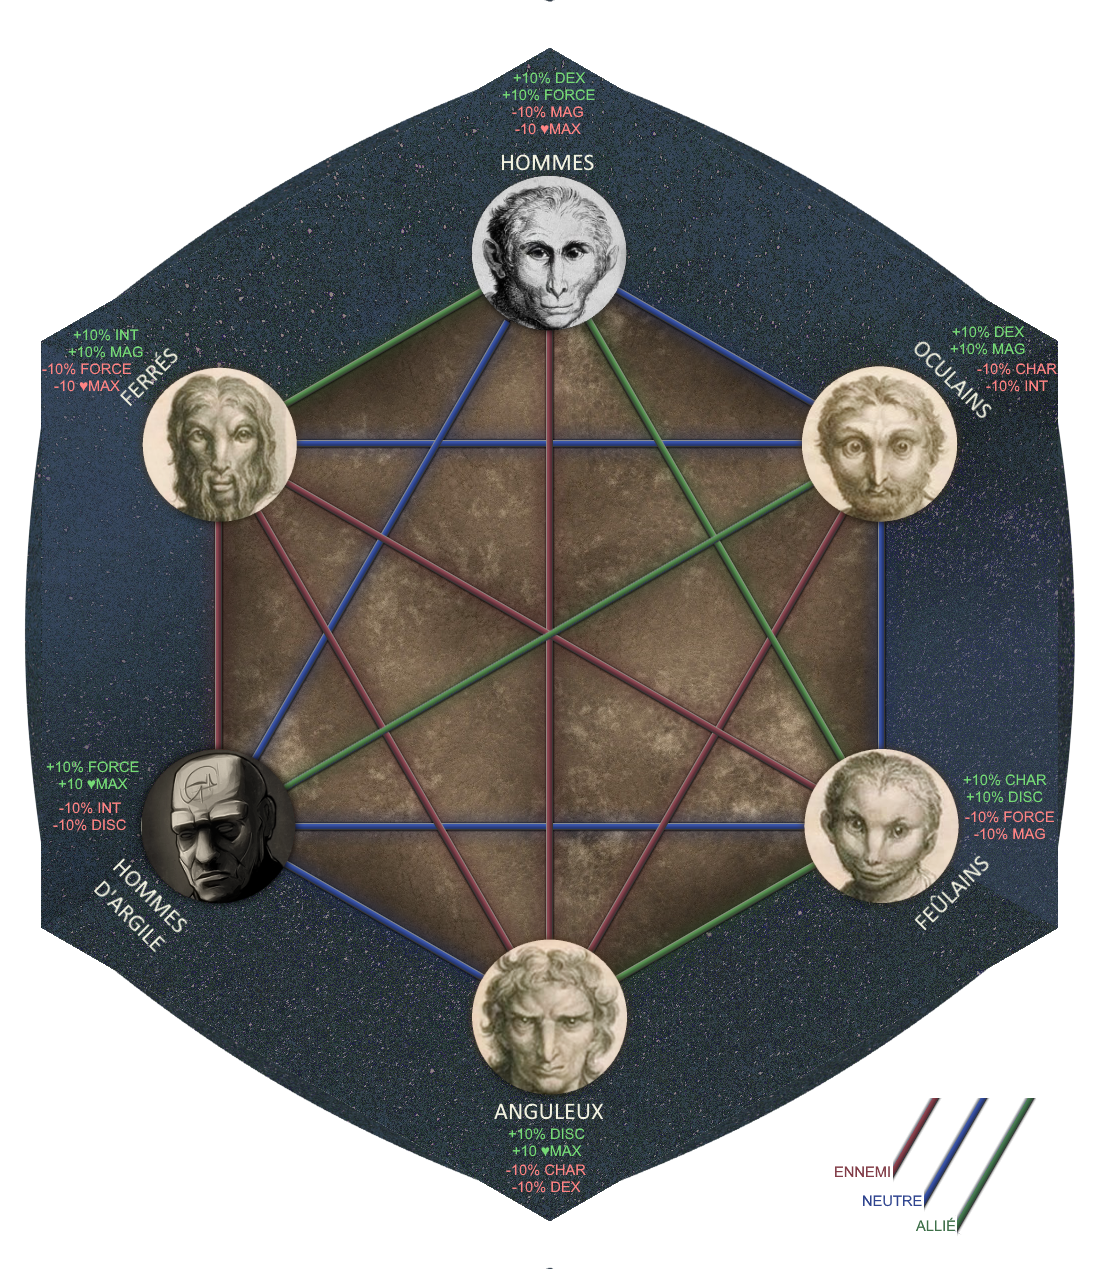
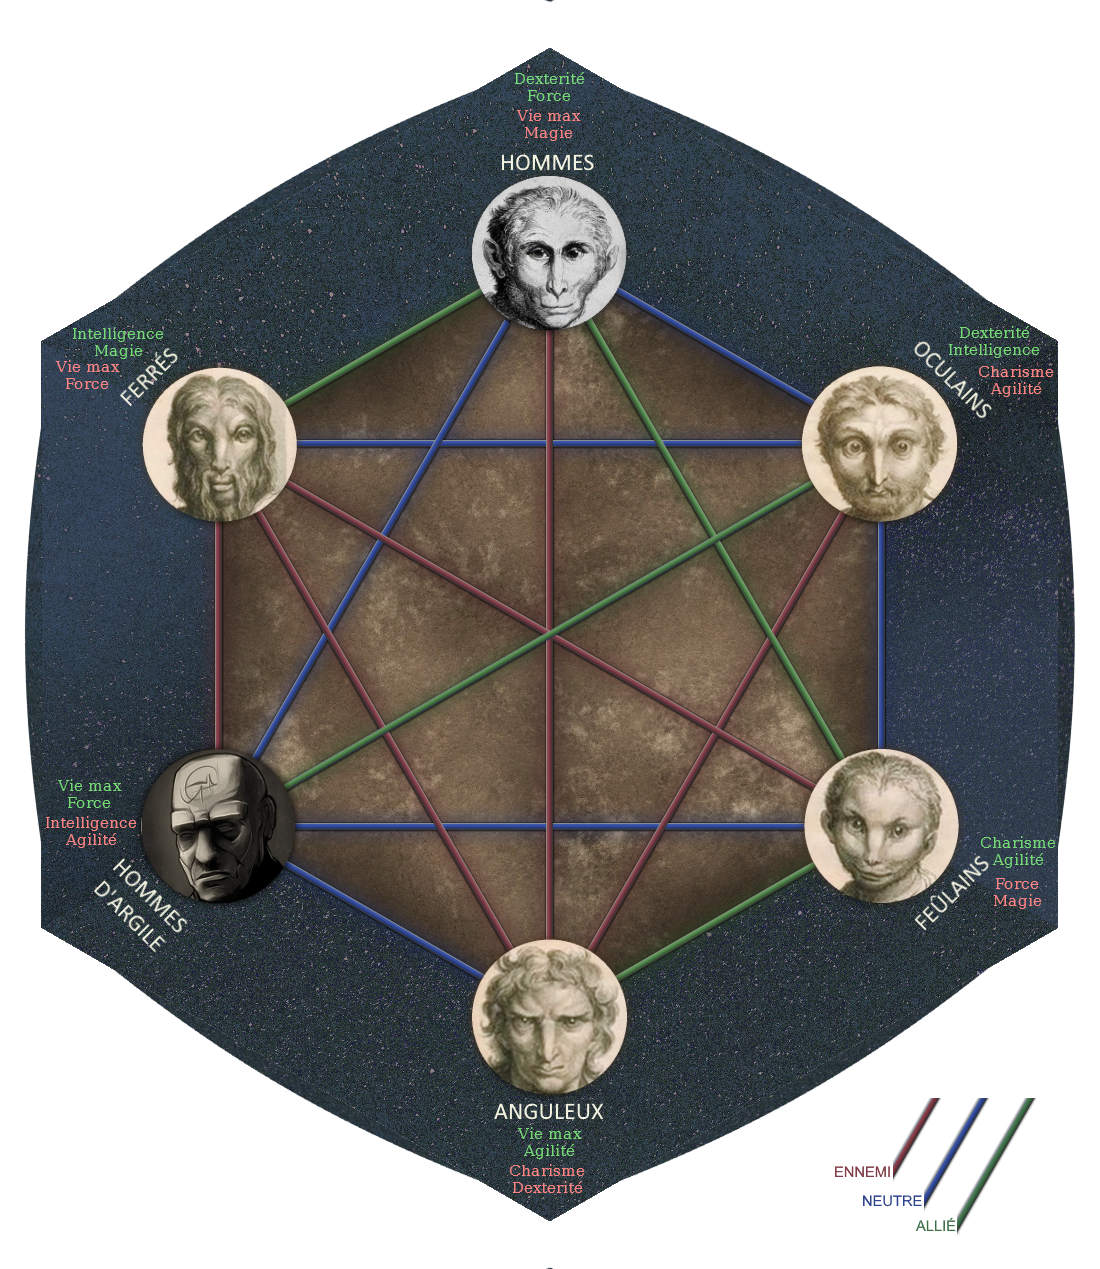
Optimisations et actualisation stats

diff --git a/0.2 Race.html b/0.2 Race.html
@@ -62,105 +62,78 @@
 /* PSEUDO */
 var elpseudo =localStorage.pseudo;
 	document.getElementById("showpseudo").innerHTML = "<h1>Choix d'une race pour "+elpseudo;
-var darace = "none";
+var darace = "";
 var iconClass = document.getElementById('iconClass');
 var classDesc = document.getElementById('classDesc');
 var getitem_desc = document.getElementById("getitem_desc");
 $('.container').click(function() {
    if($('#raceHomme').is(':checked')) {
-	iconClass.src = "images/Classes/homme.png";
-	classDesc.innerHTML="<h2>Hommes</h2><hr><i>Descendants directs du singe, les hommes représentent la partie la plus importante de la population mondiale. Leurs avant membres très développés ont très vite fait d'eux des artisans et constructeurs hors-pair. C'est ainsi grâce à leur savoir-faire que les premières villes ont été érigées.</i><br><br><b>Paricularités</b><br>+10% de Dextérité et +10% de Force<br>-10♥max au départ et -10% de Puissance Magique<br><br><b>Relations particulières</b><br>Les humains s'entendent mal avec les <font color=\"darkred\">Anguleux</font> qu'ils jugent peu sociables. Cependant, ils apprécient beaucoup la compagnie des <font color=\"darkblue\">Feûlains</font>, leurs partenaires économiques de toujours, et celle des <font color=\"darkblue\">Ferrés</font>.";
+	$("#iconClass").attr("src","images/Classes/homme.png");
+	$("#classDesc").html("<h2>Hommes</h2><hr><i>Descendants directs du singe, les hommes représentent la partie la plus importante de la population mondiale. Leurs avant membres très développés ont très vite fait d'eux des artisans et constructeurs hors-pair. C'est ainsi grâce à leur savoir-faire que les premières villes ont été érigées.</i><br><br><b>Paricularités</b><br>+10% de Dextérité et +10% de Force<br>-10♥max au départ et -10% de Puissance Magique<br><br><b>Relations particulières</b><br>Les humains s'entendent mal avec les <font color=\"darkred\">Anguleux</font> qu'ils jugent peu sociables. Cependant, ils apprécient beaucoup la compagnie des <font color=\"darkblue\">Feûlains</font>, leurs partenaires économiques de toujours, et celle des <font color=\"darkblue\">Ferrés</font>.");
 	darace="Homme";
 	}
    if($('#raceOculain').is(':checked')) {
-	iconClass.src = "images/Classes/oculain.png";
-	classDesc.innerHTML="<h2>Oculains</h2><hr><i>Les Oculains sont une évolution des anciens oiseaux de nuit telle que la chouette. Ce sont des individus simples et calmes, à l'instinct grégaire, qui ont un rapport à la nature très fusionnel. Habitant souvent loin de l'agitation des villes, ils préfèrent le calme des régions isolées, où ils vivent d'agriculture dans de petits hameaux.</i><br><br><b>Paricularités</b><br>+10% de Dextérité et +10% d'Intelligence<br>-10% de Charisme et -10% d'Agilité<br><br><b>Relations particulières</b><br>Les oculains s'entendent mal avec les <font color=\"darkred\">Anguleux</font>, qui ont un rapport de domination avec eux. Cependant, ils apprécient beaucoup la compagnie des <font color=\"darkblue\">Hommes</font>, des <font color=\"darkblue\">Ferrés</font>, et des <font color=\"darkblue\">Feûlains</font>, qui ne portent pas sur eux un regard de jugement.";
+	$("#iconClass").attr("src","images/Classes/oculain.png");
+	$("#classDesc").html("<h2>Oculains</h2><hr><i>Les Oculains sont une évolution des anciens oiseaux de nuit telle que la chouette. Ce sont des individus simples et calmes, à l'instinct grégaire, qui ont un rapport à la nature très fusionnel. Habitant souvent loin de l'agitation des villes, ils préfèrent le calme des régions isolées, où ils vivent d'agriculture dans de petits hameaux.</i><br><br><b>Paricularités</b><br>+10% de Dextérité et +10% d'Intelligence<br>-10% de Charisme et -10% d'Agilité<br><br><b>Relations particulières</b><br>Les oculains s'entendent mal avec les <font color=\"darkred\">Anguleux</font>, qui ont un rapport de domination avec eux. Cependant, ils apprécient beaucoup la compagnie des <font color=\"darkblue\">Hommes</font>, des <font color=\"darkblue\">Ferrés</font>, et des <font color=\"darkblue\">Feûlains</font>, qui ne portent pas sur eux un regard de jugement.");
 	darace="Oculain";
 	}
    if($('#raceFeulain').is(':checked')) {
-	iconClass.src = "images/Classes/feulain.png";
-	classDesc.innerHTML="<h2>Feûlains</h2><hr><i>Descendants des anciens petits félinidés, les feûlains se sont très vite rendus compte que faute de savoirs-faire particuliers, ils avaient une capacité à enjôler de leurs mots les autres individus. C'est aujourd'hui une population avant tout marchande.</i><br><br><b>Paricularités</b><br>+10% de Charisme et +10% d'Agilité<br>-10% de Force et -10% de Puissance Magique<br><br><b>Relations particulières</b><br>Les feûlains s'entendent mal avec les <font color=\"darkred\">Ferrés</font> qu'ils jugent hautains, et parce qu'ils maîtrisent la magie, dont les feûlains sont presque dépourvus. Cependant, ils apprécient beaucoup la compagnie des <font color=\"darkblue\">Hommes</font>, leurs partenaires économiques de toujours, et celle des <font color=\"darkblue\">Anguleux</font>.";
+	$("#iconClass").attr("src","images/Classes/feulain.png");
+	$("#classDesc").html("<h2>Feûlains</h2><hr><i>Descendants des anciens petits félinidés, les feûlains se sont très vite rendus compte que faute de savoirs-faire particuliers, ils avaient une capacité à enjôler de leurs mots les autres individus. C'est aujourd'hui une population avant tout marchande.</i><br><br><b>Paricularités</b><br>+10% de Charisme et +10% d'Agilité<br>-10% de Force et -10% de Puissance Magique<br><br><b>Relations particulières</b><br>Les feûlains s'entendent mal avec les <font color=\"darkred\">Ferrés</font> qu'ils jugent hautains, et parce qu'ils maîtrisent la magie, dont les feûlains sont presque dépourvus. Cependant, ils apprécient beaucoup la compagnie des <font color=\"darkblue\">Hommes</font>, leurs partenaires économiques de toujours, et celle des <font color=\"darkblue\">Anguleux</font>.");
 	darace="Feûlain";
 	}
    if($('#raceFerre').is(':checked')) {
-	iconClass.src = "images/Classes/ferre.png";
-	classDesc.innerHTML="<h2>Ferrés</h2><hr><i>Les Ferrés sont une évolution des anciens boucs. Ce sont des créatures très intelligentes, et qui ont un contact supérieur avec l'occulte. Ils vivent souvent seuls, individus à l'ego surdimensionné, pour se consacrer à leur art.</i><br><br><b>Paricularités</b><br>+10% d'Intelligence et +10% de Puissance Magique<br>-10% de Force et -10♥max au départ<br><br><b>Relations particulières</b><br>Les ferrés s'entendent mal avec les <font color=\"darkred\">Hommes d'argile</font> depuis la rebéllion de ces derniers, ainsi qu'avec les <font color=\"darkred\">Anguleux</font> et les <font color=\"darkred\">Feûlains</font>, qu'ils jugent idiots. Cependant, ils apprécient beaucoup la compagnie des <font color=\"darkblue\">Humains</font>, dont ils apprécient l'intérêt  qu'ils portent pour eux.";
+	$("#iconClass").attr("src","images/Classes/ferre.png");
+	$("#classDesc").html("<h2>Ferrés</h2><hr><i>Les Ferrés sont une évolution des anciens boucs. Ce sont des créatures très intelligentes, et qui ont un contact supérieur avec l'occulte. Ils vivent souvent seuls, individus à l'ego surdimensionné, pour se consacrer à leur art.</i><br><br><b>Paricularités</b><br>+10% d'Intelligence et +10% de Puissance Magique<br>-10% de Force et -10♥max au départ<br><br><b>Relations particulières</b><br>Les ferrés s'entendent mal avec les <font color=\"darkred\">Hommes d'argile</font> depuis la rebéllion de ces derniers, ainsi qu'avec les <font color=\"darkred\">Anguleux</font> et les <font color=\"darkred\">Feûlains</font>, qu'ils jugent idiots. Cependant, ils apprécient beaucoup la compagnie des <font color=\"darkblue\">Humains</font>, dont ils apprécient l'intérêt  qu'ils portent pour eux.");
 	darace="Ferré";
 	}
    if($('#raceAnguleux').is(':checked')) {
-	iconClass.src = "images/Classes/anguleux.png";
-	classDesc.innerHTML="<h2>Anguleux</h2><hr><i>Les anguleux descendent tout droit des anciens grands charognards. C'est une population généralement très fière et peu loquace, qui ne se laisse pas marcher dessus. Ils ont su dans l'histoire s'approprier le bien commun pour aujourd'hui être une population assez aisée.</i><br><br><b>Paricularités</b><br>+10♥max au début et +10% d'Agilité<br>-10% de Charisme -10% de Dextérité<br><br><b>Relations particulières</b><br>Les anguleux s'entendent plutôt mal avec les <font color=\"darkred\">Hommes</font>, les <font color=\"darkred\">Oculains</font>, et  les <font color=\"darkred\">Ferrés</font> à cause de leur caractère renfermé. Étrangement, ils acceptent la compagnie des <font color=\"darkblue\">Feûlains</font>.";
+	$("#iconClass").attr("src","images/Classes/anguleux.png");
+	$("#classDesc").html("<h2>Anguleux</h2><hr><i>Les anguleux descendent tout droit des anciens grands charognards. C'est une population généralement très fière et peu loquace, qui ne se laisse pas marcher dessus. Ils ont su dans l'histoire s'approprier le bien commun pour aujourd'hui être une population assez aisée.</i><br><br><b>Paricularités</b><br>+10♥max au début et +10% d'Agilité<br>-10% de Charisme -10% de Dextérité<br><br><b>Relations particulières</b><br>Les anguleux s'entendent plutôt mal avec les <font color=\"darkred\">Hommes</font>, les <font color=\"darkred\">Oculains</font>, et  les <font color=\"darkred\">Ferrés</font> à cause de leur caractère renfermé. Étrangement, ils acceptent la compagnie des <font color=\"darkblue\">Feûlains</font>.");
 	darace="Anguleux";
 	}
    if($('#raceGolemsang').is(':checked')) {
-	iconClass.src = "images/Classes/hommeargile.png";
-	classDesc.innerHTML="<h2>Hommes d'Argile</h2><hr><i>Les Golems d'Argile sont une création magique des Ferrés, qui voulaient soulever les éléments terrestres à la vie pour en faire des esclaves. Le résultat a été plus que brillant : les serviteurs d'argiles étaient juste assez conscients pour comprendre que leur condition d'esclave ne leur convenait pas.. Certains d'entre eux ont demandé à des mages non-angulains de les rendre plus humanoïdes, c'est ainsi que les Golems de Sang sont nés, colosses de chair en général calmes et pacifiques, malgré leur stature.</i><br><br><b>Paricularités</b><br>+10% de Force et +10♥max au départ<br>-10% d'Intelligence et -10% d'Agilité<br><br><b>Relations particulières</b><br>Les golems de sang s'entendent mal avec les <font color=\"darkred\">Ferrés</font> depuis l'insurréction. En relation pacifique avec les autres races, ils aiment particulièrement la compagnie des <font color=\"darkblue\">Oculains</font>, créatures appréciant également la paix et la simplicité.";
+	$("#iconClass").attr("src","images/Classes/hommeargile.png");
+	$("#classDesc").html("<h2>Hommes d'Argile</h2><hr><i>Les Golems d'Argile sont une création magique des Ferrés, qui voulaient soulever les éléments terrestres à la vie pour en faire des esclaves. Le résultat a été plus que brillant : les serviteurs d'argiles étaient juste assez conscients pour comprendre que leur condition d'esclave ne leur convenait pas.. Certains d'entre eux ont demandé à des mages non-angulains de les rendre plus humanoïdes, c'est ainsi que les Golems de Sang sont nés, colosses de chair en général calmes et pacifiques, malgré leur stature.</i><br><br><b>Paricularités</b><br>+10% de Force et +10♥max au départ<br>-10% d'Intelligence et -10% d'Agilité<br><br><b>Relations particulières</b><br>Les golems de sang s'entendent mal avec les <font color=\"darkred\">Ferrés</font> depuis l'insurréction. En relation pacifique avec les autres races, ils aiment particulièrement la compagnie des <font color=\"darkblue\">Oculains</font>, créatures appréciant également la paix et la simplicité.");
 	darace="Golem de Sang";
 	}
 });
 function confirmRace(){
 	if (darace != "none"){
 		localStorage.race=darace;
-		localStorage.plHealth=100;
-		localStorage.plHealthMax=100;
-		localStorage.raceXDex=1;
-		localStorage.raceXChar=1;
-		localStorage.raceXInt=1;
-		localStorage.raceXAgi=1;
-		localStorage.raceXMag=1;
-		localStorage.raceXForce=1;
-		localStorage.bForce=2;
-		localStorage.bMag=2;
-		localStorage.bChar=2;
-		localStorage.bDex=2;
-		localStorage.bAgi=2;
-		localStorage.bInt=2;
+		localStorage.plHealth=localStorage.plHealthMax=100;
+		localStorage.raceXDex=localStorage.raceXChar=localStorage.raceXInt=localStorage.raceXAgi=localStorage.raceXMag=localStorage.raceXForce=1;
+		localStorage.bForce=localStorage.bMag=localStorage.bChar=localStorage.bDex=localStorage.bAgi=localStorage.bInt=2;
 		if (darace=="Homme"){
-			localStorage.raceXDex=1.1;
-			localStorage.raceXForce=1.1;
-			localStorage.plHealth=90
-			localStorage.plHealthMax=90
+			localStorage.raceXDex=localStorage.raceXForce=1.1;
 			localStorage.raceXMag=0.9;
-			getitem_desc.innerHTML = "Vous êtes un Homme. Ce choix influera sur vos relations avec les autres races.";
+			localStorage.plHealth=jlocalStorage.plHealthMax=90;
 		}
 		if (darace=="Oculain"){
-			localStorage.raceXDex=1.1;
-			localStorage.raceXMag=1.1;
-			localStorage.raceXChar=0.9;
-			localStorage.raceXInt=0.9;
-			getitem_desc.innerHTML = "Vous êtes un Oculain. Ce choix influera sur vos relations avec les autres races.";
+			localStorage.raceXDex=localStorage.raceXInt=1.1;
+			localStorage.raceXChar=localStorage.raceXAgi=0.9;
 		}
 		if (darace=="Feûlain"){
-			localStorage.raceXChar=1.1;
-			localStorage.raceXAgi=1.1;
-			localStorage.raceXForce=0.9;
-			localStorage.raceXMag=0.9;
-			getitem_desc.innerHTML = "Vous êtes un Feûlain. Ce choix influera sur vos relations avec les autres races.";
+			localStorage.raceXChar=localStorage.raceXAgi=1.1;
+			localStorage.raceXForce=localStorage.raceXMag=0.9;
 		}
 		if (darace=="Ferré"){
-			localStorage.raceXInt=1.1;
-			localStorage.raceXMag=1.1;
+			localStorage.raceXInt=localStorage.raceXMag=1.1;
 			localStorage.raceXForce=0.9;
-			localStorage.plHealth=90
-			localStorage.plHealthMax=90
-			getitem_desc.innerHTML = "Vous êtes un Ferré. Ce choix influera sur vos relations avec les autres races.";
+			localStorage.plHealth=localStorage.plHealthMax=90;
+
 		}
 		if (darace=="Anguleux"){
-			localStorage.plHealth=110
-			localStorage.plHealthMax=110
+			localStorage.plHealth=localStorage.plHealthMax=110;
 			localStorage.raceXAgi=1.1;
-			localStorage.raceXChar=0.9;
-			localStorage.raceXDex=0.9;
-			getitem_desc.innerHTML = "Vous êtes un Anguleux. Ce choix influera sur vos relations avec les autres races.";
+			localStorage.raceXChar=localStorage.raceXDex=0.9;
 		}
 		if (darace=="Golem de Sang"){
+			localStorage.plHealth=localStorage.plHealthMax=110;
 			localStorage.raceXForce=1.1;
-			localStorage.plHealth=110
-			localStorage.plHealthMax=110
-			localStorage.raceXInt=0.9;
-			localStorage.raceXAgi=0.9;
-			getitem_desc.innerHTML = "Vous êtes un Golem de Sang. Ce choix influera sur vos relations avec les autres races.";
+			localStorage.raceXInt=localStorage.raceXAgi=0.9;
 		}
+		$("#getitem_desc").html("Vous êtes un "+darace+". Ce choix influera sur vos relations avec les autres races.");
 		localStorage.race=darace;
 		$("#dialog").dialog({
 			resizable: false,

diff --git a/0.1 Pseudo.html b/0.1 Pseudo.html
@@ -18,18 +18,14 @@
 	<header>
 	</header>
 	<div id="formPseudo">
-	<form>
-	Votre nom pour l'aventure :<br>(masculin)<br>
-	<div id="formBg">
-	<input type="text" id="copseudo" name="firstname" value="" data-lpignore="true">
+		<form>
+			Votre nom pour l'aventure :<br>(masculin)<br>
+			<div id="formBg">
+				<input type="text" id="copseudo" name="firstname" value="" data-lpignore="true">
+			</div>
+		</form>
+		<a onclick="continuer();" class="btnD">Continuer</a>
 	</div>
-	<!-- <br><br> -->
-	<!-- <input type="submit" class ="btnD"  value="Voilà">  -->
-
-	</form>
-	<a onclick="continuer();" class="btnD">Continuer</a>
-	</div>
-
 	<div id="vertLeft"><div id="rust1a"></div><div id="rust1b"></div></div>
 	<div id="ang1a"></div><div id="ang1b"></div>
 	<div id="vertRight"><div id="rust2a"></div><div id="rust2b"></div></div>
@@ -39,11 +35,10 @@
 <!-- SCRIPTS ---------------------------------------------------------------------------------->
 <script>
 $("#copseudo").focus();
-function continuer()
-{
-	var dapseudo = document.getElementById('copseudo').value;
+function continuer(){
+	var dapseudo = $('#copseudo').val();
 	dapseudo = dapseudo.toLowerCase().replace(/\b[a-z]/g, function(letter) {
-    return letter.toUpperCase();});
+  	return letter.toUpperCase();});
 	localStorage.pseudo=dapseudo;
 	window.location.href = '0.2 Race.html';
 }
